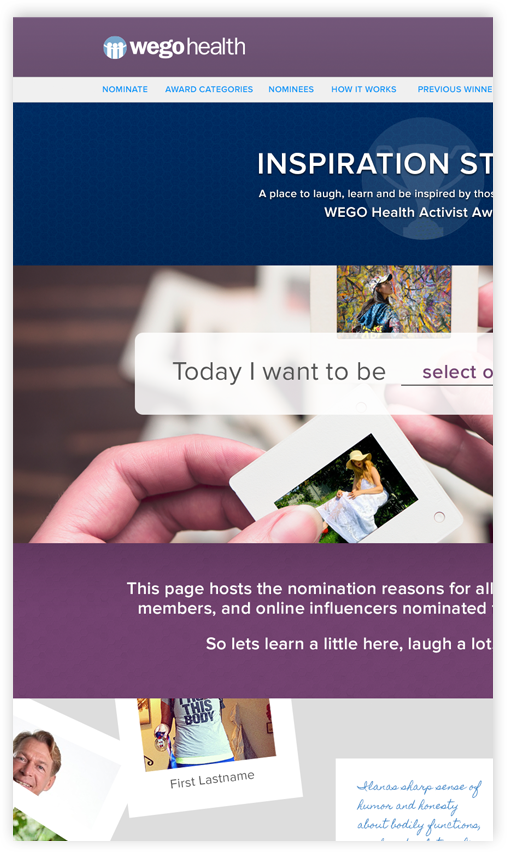
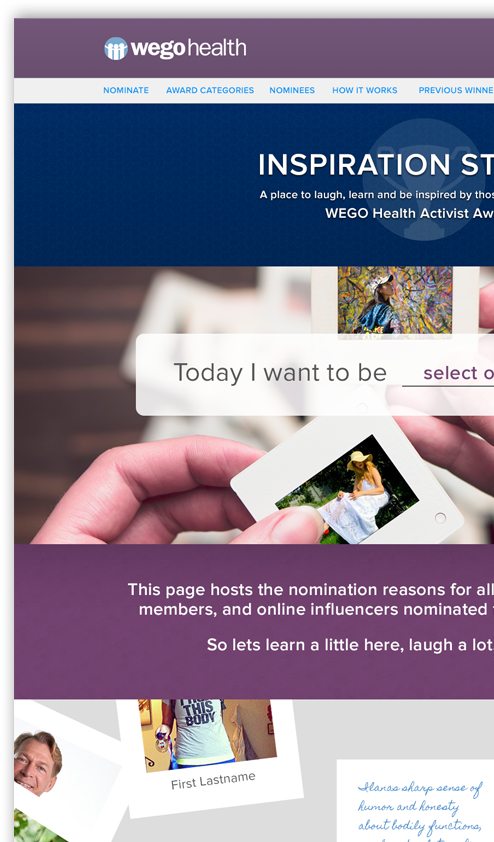
images

Changed region(s): [[0.0, 0.0, 1.0, 1.0], [0.0, 0.0309, 0.0304, 0.0926]]

diff --git a/pages/wego-health-inspiration-station.html b/pages/wego-health-inspiration-station.html
@@ -20,7 +20,7 @@
 </head>
 <body>
 <div id="wrapper" class="container-12 content-center group">
-	<header class="knockout quizzly">
+	<header class="knockout wego-header">
 		<h1>Joshua Litchfield</h1>
 		<nav>
 			<ul>
@@ -32,19 +32,19 @@
 				<li><a href="https://medium.com/@Josh_Litchfield"><img src="https://raw.githubusercontent.com/jlitchfield/jlitchfield.github.io/update/images/nav/medium-small-white%402x.png" width="28px" height="24px" alt="Joshua Litchfield's Medium Follows"><span class="houdini">Joshua Litchfield's Medium Follows</span></a></li>
 			</ul>
 		</nav>
-		<h2>Quizzly: A Case Study <span class="sub-header">A market research survey engine for the healthcare community</span></h2>
+		<h2>WEGO Health: Inspiration Station</h2>
 	</header>
 
-	<section>
-		<article>
+	<section class="background group">
+		<article class="grid-5 offset-1">
 			<p>WEGO Health hosts the annual Health Activists Awards. Community members endorse and connect with other like minded individuals across several patient-centric categories. The event has proven very successful.</p>
 		</article>
-		<article>
+		<article class="grid-5">
 			<p>Over the years, several designers have contributed to the project, each imparting a new aesthetic or methodology, resulting in a fragmented experience. I was tasked with redesigning the user interface and experience.v</p>
 		</article>
 	</section>
 
-	<section>
+	<section class="before">
 		<article>
 			<h3>BEFORE</h3>
 			<ul>
@@ -55,7 +55,7 @@
 		</article>
 	</section>
 
-	<section>
+	<section class="after">
 		<article>
 			<h3>AFTER</h3>
 			<ul>

diff --git a/css/main.css b/css/main.css
@@ -52,7 +52,7 @@ h1, h3, h4, h5, h6 {
 	color: #364347;
 }
 
-h2, p, span, a { 
+h2, p, span, ul, a { 
 	font-family: "Apercu Regular", "Source Sans Pro", sans-serif !important;
 	font-size-adjust:0.508;
 	font-weight:normal;
@@ -89,7 +89,7 @@ h4 {
 	padding-bottom: 24px;
 }
 
-p {
+p, ul li {
 	font-size: 16px;
 	line-height: 28px;
 	padding: 24px 0;
@@ -307,6 +307,18 @@ header.knockout h1, header.knockout h2, header.knockout .sub-header {
 /* ==== Wego ==== */
 header.wego-header {
 	height: 566px;
-	background: #764673 url(https://raw.githubusercontent.com/jlitchfield/jlitchfield.github.io/update/images/quizzly-login.png) bottom center no-repeat;
-	background-size: 511px 346px;
+	background: #764673 url(https://raw.githubusercontent.com/jlitchfield/jlitchfield.github.io/update/images/wego-header.png) bottom center no-repeat;
+	background-size: 881px 422px;
 }
+
+.before {
+	height: 800px;
+	padding-top: 60px;
+	background: #dedede url(https://raw.githubusercontent.com/jlitchfield/jlitchfield.github.io/update/images/wego-before.png) bottom right no-repeat;
+	background-size: 980px 588px;
+}
+
+.after {
+	background-color: #78a8cd;
+}
+
